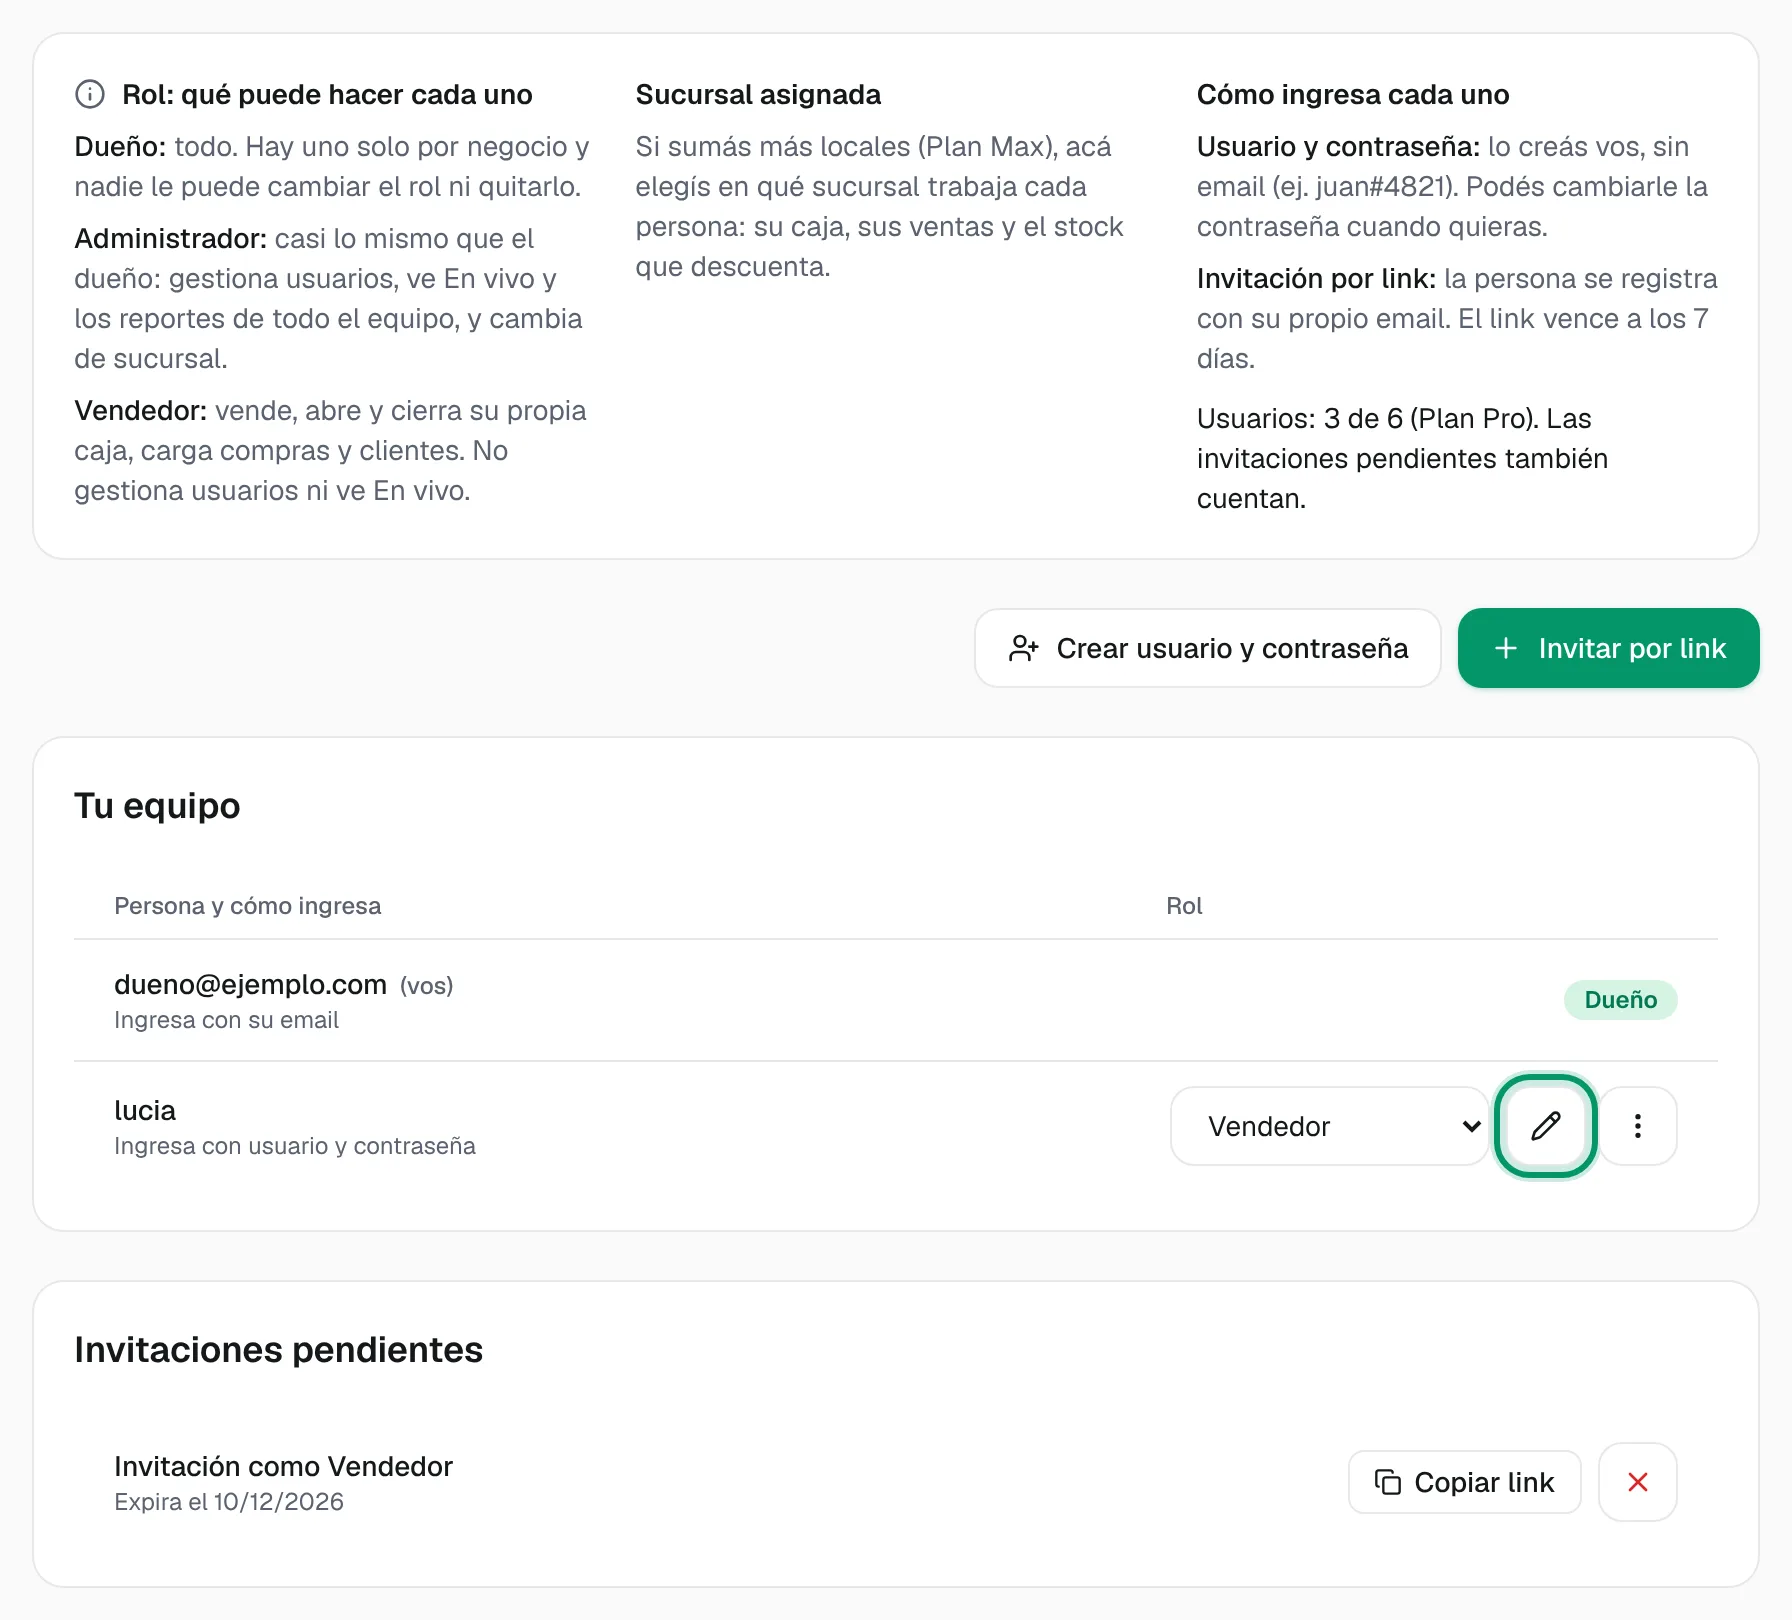
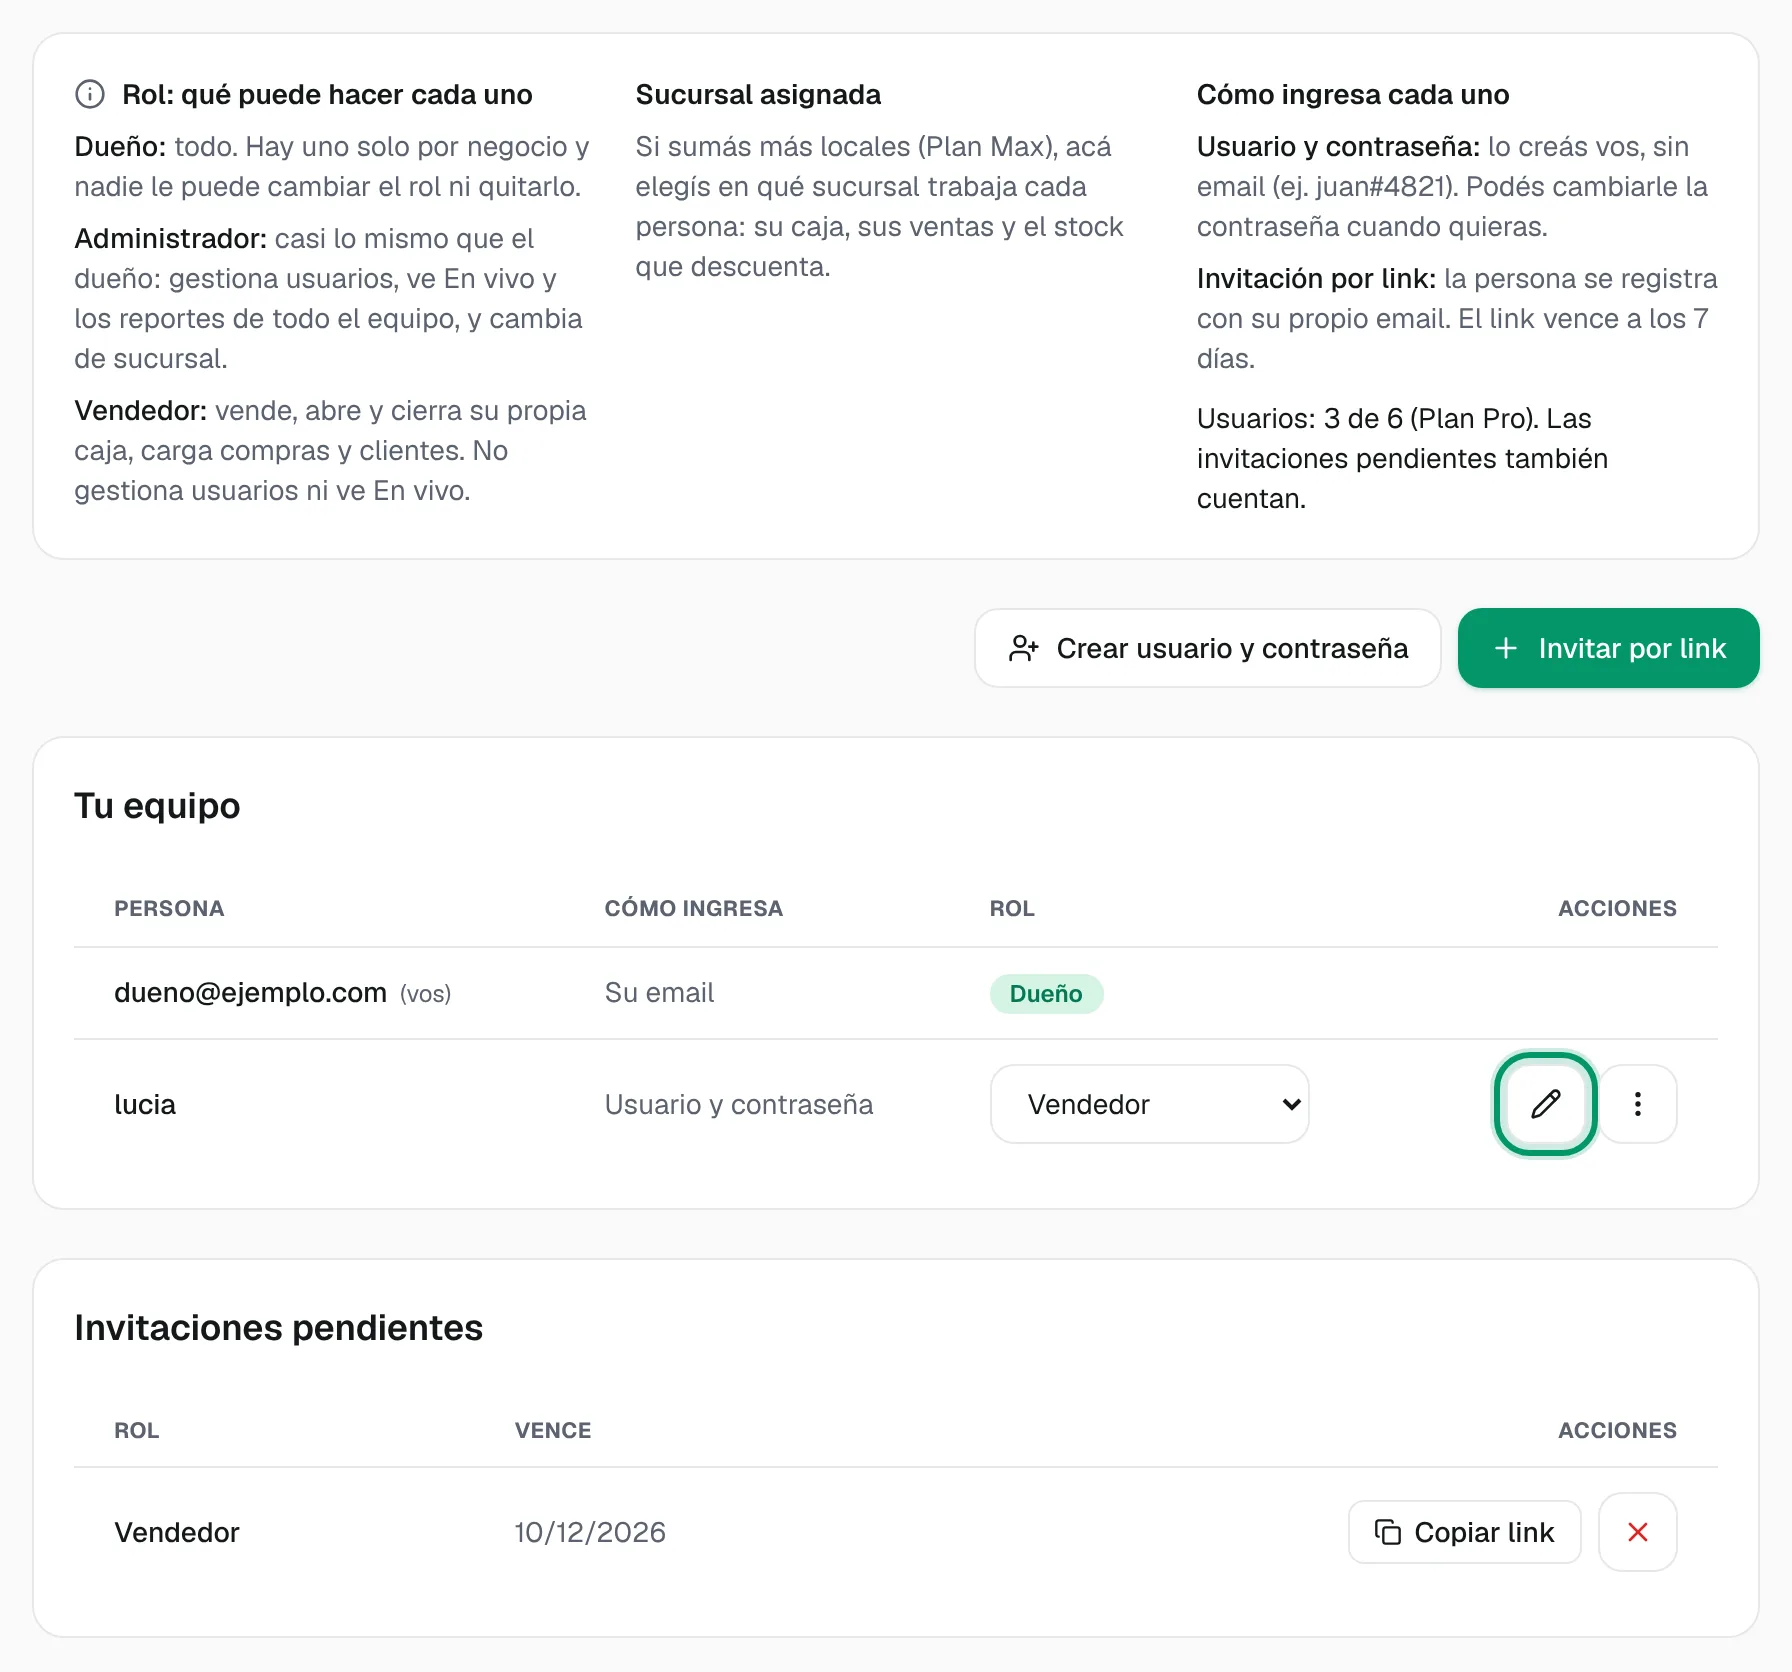
Guías y capturas: Movimientos y Tu equipo en tabla
Claude-Session: https://claude.ai/code/session_01T9B8RUjLyk6jBRPz1fBipT

diff --git a/src/lib/docs/articles/stock.ts b/src/lib/docs/articles/stock.ts
@@ -58,6 +58,7 @@ export const stockDocs: DocArticle[] = [
       { text: "Entrá a **Productos** y abrí la solapa **Movimientos**.", images: [{ name: "movimientos-lista", alt: "Pestaña Movimientos de Productos con los filtros por período y tipo, los totales y la lista de movimientos de stock" }] },
       { text: "Buscá un producto por nombre, SKU o código de barras (**Buscar por producto, SKU o código de barras…**).", images: [{ name: "movimientos-buscar", alt: "Pestaña Movimientos con el buscador por producto, SKU o código de barras resaltado" }] },
       { text: "Filtrá por período (por ejemplo **Este mes**) o por persona con **Filtrar por persona**." },
+      { text: "Leé la tabla: **Fecha y hora**, **Tipo**, **Producto**, **Motivo / referencia**, **Persona** y **Cantidad**. Tocá el título de **Fecha y hora**, **Producto** o **Cantidad** para ordenar." },
       { text: "Mirá el tipo de cada movimiento: **Venta**, **Compra**, **Ajuste**, **Transferencia**, **Anulación de venta** o **Stock inicial**, con la cantidad que entró o salió." },
     ],
     tips: [
@@ -66,7 +67,7 @@ export const stockDocs: DocArticle[] = [
     ],
     faq: [
       { q: "¿Qué tipos de movimiento hay?", a: "**Venta** (salió por una venta), **Compra** (entró por una compra), **Ajuste** (ajuste manual o inventario), **Transferencia** (pasó entre sucursales), **Anulación de venta** y **Stock inicial**." },
-      { q: "¿Puedo ver quién hizo cada movimiento?", a: "Sí, el dueño y los administradores ven la columna **Hecho por**, y pueden filtrar con **Filtrar por persona**." },
+      { q: "¿Puedo ver quién hizo cada movimiento?", a: "Sí, el dueño y los administradores ven la columna **Persona**, y pueden filtrar con **Filtrar por persona**." },
       { q: "¿Qué plan necesito?", a: "Los movimientos de stock están desde el Plan Básico. En el Plan Gratis ves el aviso con el plan que los desbloquea." },
     ],
     glossary: ["stock"],
